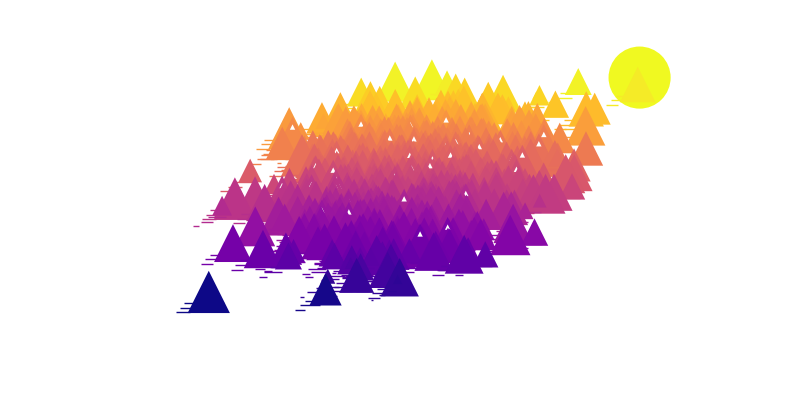
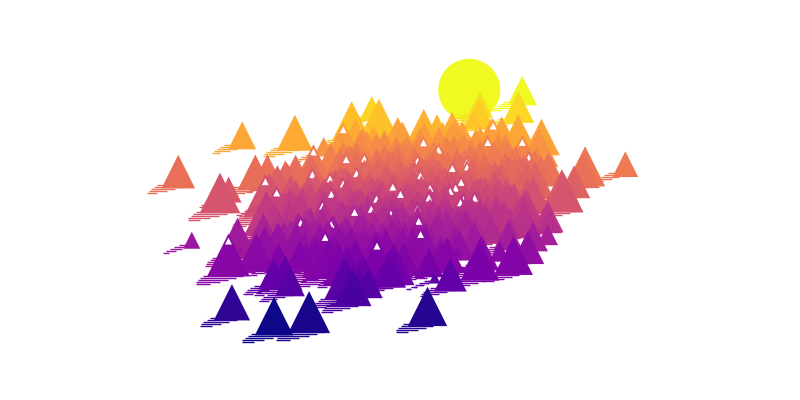
cleaning

Changed region(s): [[0.1875, 0.12, 0.8438, 0.87]]

diff --git a/src/sunset_behind_the_mountains.py b/src/sunset_behind_the_mountains.py
@@ -31,20 +31,24 @@ for i in sort:
     else:
         # get mountain height
         d = np.random.random() * 1000
+
         # get the shadows of the mountains
-        ax.scatter(x[i]-0.10, y[i]-0.25, c=z[i], marker='_', cmap='plasma',
-                   edgecolor='none', s=d*0.9, vmin=z.min(), vmax=z.max())
-        ax.scatter(x[i]-0.30, y[i]-0.35, c=z[i], marker='_', cmap='plasma',
-                   edgecolor='none', s=d*0.4, vmin=z.min(), vmax=z.max())
-        ax.scatter(x[i]-0.50, y[i]-0.45, c=z[i], marker='_', cmap='plasma',
-                   edgecolor='none', s=d*0.1, vmin=z.min(), vmax=z.max())
+        xxs = np.arange(0.1, 1.0, 0.1)
+        yys = np.arange(0.05, 0.30, 0.05)
+        dds = np.arange(0.1, 1.1, 0.2)[::-1]
+        for xx, yy, dd in zip(xxs, yys, dds):
+            ax.scatter(x[i]-xx, y[i]-yy-0.0005*d, c=z[i], marker='_',
+                       cmap='plasma', edgecolor='none', s=d*dd,
+                       vmin=z.min(), vmax=z.max())
+
         # plot the mountains
         ax.scatter(x[i], y[i], c=z[i], marker='^', cmap='plasma',
                    edgecolor='none', s=d, vmin=z.min(), vmax=z.max())
+
         # mountains above 950 m a.s.l. have snow
         if d > 950:
-            ax.scatter(x[i], y[i]+0.25, c='w', marker='^',
-                       edgecolor='none', s=15)
+            ax.scatter(x[i], y[i]+0.35, c='w', marker='^',
+                       edgecolor='none', s=25)
 
 plt.axis('off')
 plt.savefig(path + 'sunset.png', transparent=True, format='png')
